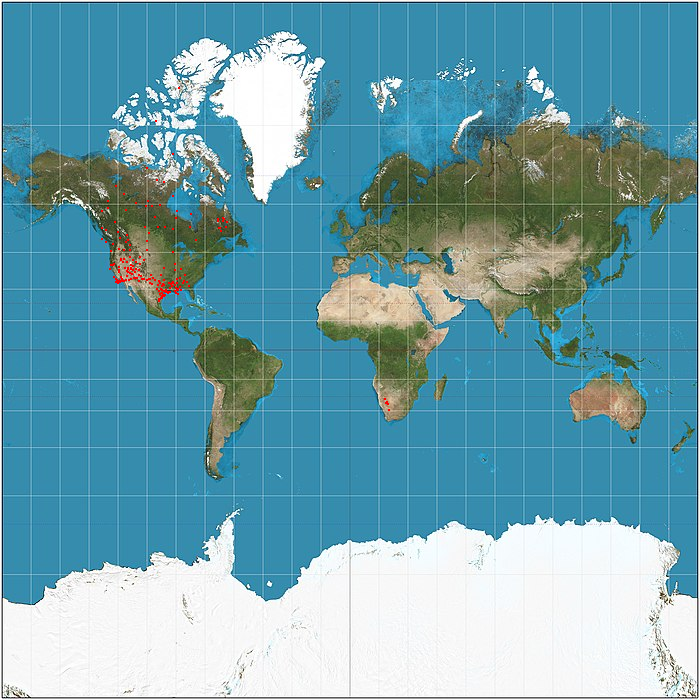
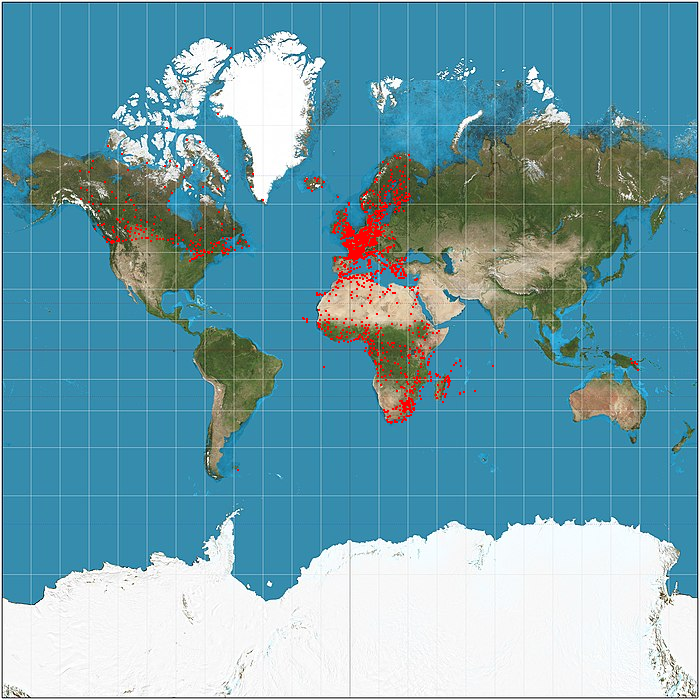
fixed coordinate mapping

diff --git a/code/src/graph.h b/code/src/graph.h
@@ -126,17 +126,21 @@ public:
         int middleY = worldMap.height()/2;
         int xcord;
         int ycord;
-        for(unsigned i = 0; i < 200/*airports.size()*/; i++){
+        double radius = worldMap.width()/(2*3.14);
+        for(unsigned i = 0; i < 1500/*airports.size()*/; i++){
             if(airports.find(i) != airports.end()){
-                double x = (airports.at(i).second+180)*(worldMap.width()/360) + 60;
+                
+                // double x = (airports.at(i).second+180)*(worldMap.width()/360);
                 long double latRad = toRadians(airports.at(i).first);
-                double mercN = log(tan((3.14/4)+(latRad/2)));
-                double y     = (worldMap.height()/2)-(worldMap.width()*mercN/(2*3.14)) + 40;
-                // long double longRad = toRadians(airports.at(i).second);
-                // xcord = cos(latRad) * cos(longRad) * middleX + middleX;
-                // ycord = cos(latRad) * sin(longRad) * middleY + middleY;
+                double mercN = log(tan((3.14/4)+(latRad/2))) * radius;
+                // double y     = (worldMap.height()/2)-(worldMap.width()*mercN/(2*3.14));
+                long double longRad = toRadians(airports.at(i).second + 180);
+                double x = longRad * radius;
+                double y = worldMap.height()/2 - mercN; 
+                //double x = cos(latRad) * cos(longRad) * middleX + middleX;
+                //double y = cos(latRad) * sin(longRad) * middleY + middleY;
                 airportMap -> addSticker(dot, (int)x, (int)y);
-                cout << "added sticker" << endl;
+                cout << convert.at(i) << endl;
             }
         }
         Image output = airportMap->render();
